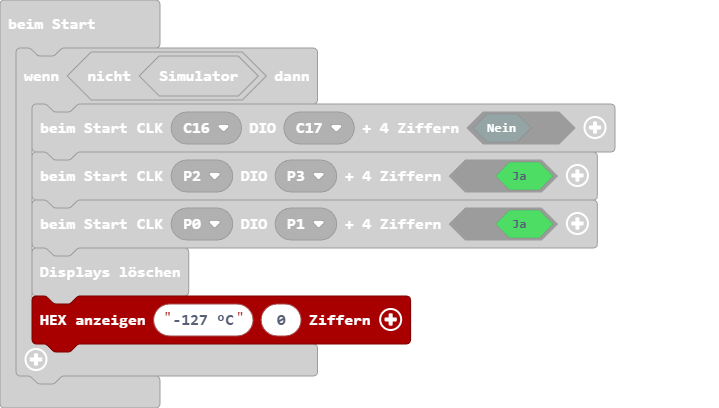
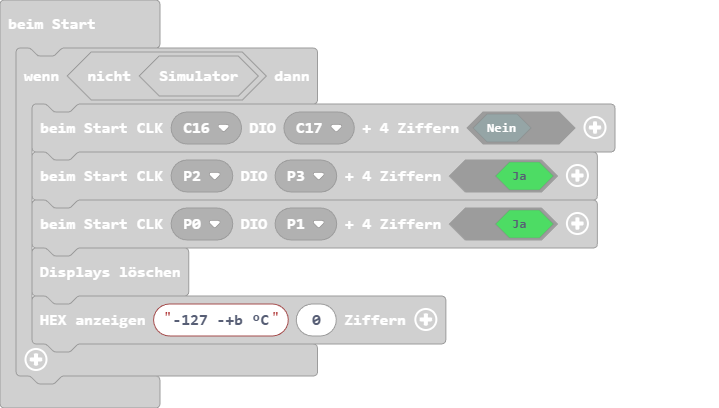
Aktualisiere pxt.json, main.blocks, main.ts, 4_digit_display.ts

Changed region(s): [[0.0306, 0.7059, 0.6426, 0.8824]]

diff --git a/4_digit_display.ts b/4_digit_display.ts
@@ -51,16 +51,18 @@ namespace pins {/* 4_digit_display.ts
             for (let i = 0; i < hex_string.length; i++) {
                 let ci = hex_string.charAt(i) // 1 Zeichen aus hex_string (char)
                 let hi = parseInt(ci, 16) // HEX Wert 0..15 oder NaN
-                if (!Number.isNaN(hi))
+                if (ci =="-")
+                    d7_array.push(0b01000000)  // Minus - (- und + wird 0 bei parseInt16)
+                else if ( ci == "+")
+                    d7_array.push(0b01110000)  // Plus +
+                else if (ci == " " )
+                    d7_array.push(0b00000000)  // Leerzeichen
+                else if (!Number.isNaN(hi))
                     d7_array.push([
                         0x3f, 0x06, 0x5b, 0x4f, 0x66, 0x6d, 0x7d, 0x07, // 0 1 2 3 4 5 6 7
                         0x7f, 0x6f, 0x77, 0x7c, 0x39, 0x5e, 0x79, 0x71 // 8 9 A b C d E F
                     ][hi]) // HEX Wert 0..15
-                else if (ci == ' ')
-                    d7_array.push(0b00000000)  // Leerzeichen
-                else if (ci == '-')
-                    d7_array.push(0b01000000)  // Minus -
-                else if (ci == '°')
+                else if (ci == "°")
                     d7_array.push(0b01100011)  // Grad °
                 else // bei allen ungültigen Zeichen kein push
                     d7_array[d7_array.length - 1] |= 0x80 // Doppelpunkt bei letzter Ziffer an schalten
@@ -68,6 +70,7 @@ namespace pins {/* 4_digit_display.ts
             while (len && d7_array.length < len) {
                 d7_array.push(0x3f) // Ziffer 0 nach links anhängen
             }
+            d7_array.reverse()
             d7SegmentArray(d7_array)
         }
     }

diff --git a/main.ts b/main.ts
@@ -9,5 +9,5 @@ if (!(pins.simulator())) {
     pins.d4CreateDisplay(pins.pins_DigitalPin(DigitalPin.P2), pins.pins_DigitalPin(DigitalPin.P3), true)
     pins.d4CreateDisplay(pins.pins_DigitalPin(DigitalPin.P0), pins.pins_DigitalPin(DigitalPin.P1), true)
     pins.d4Clear()
-    pins.d7String("-127 °C")
+    pins.d7String("-127 -+b °C")
 }
